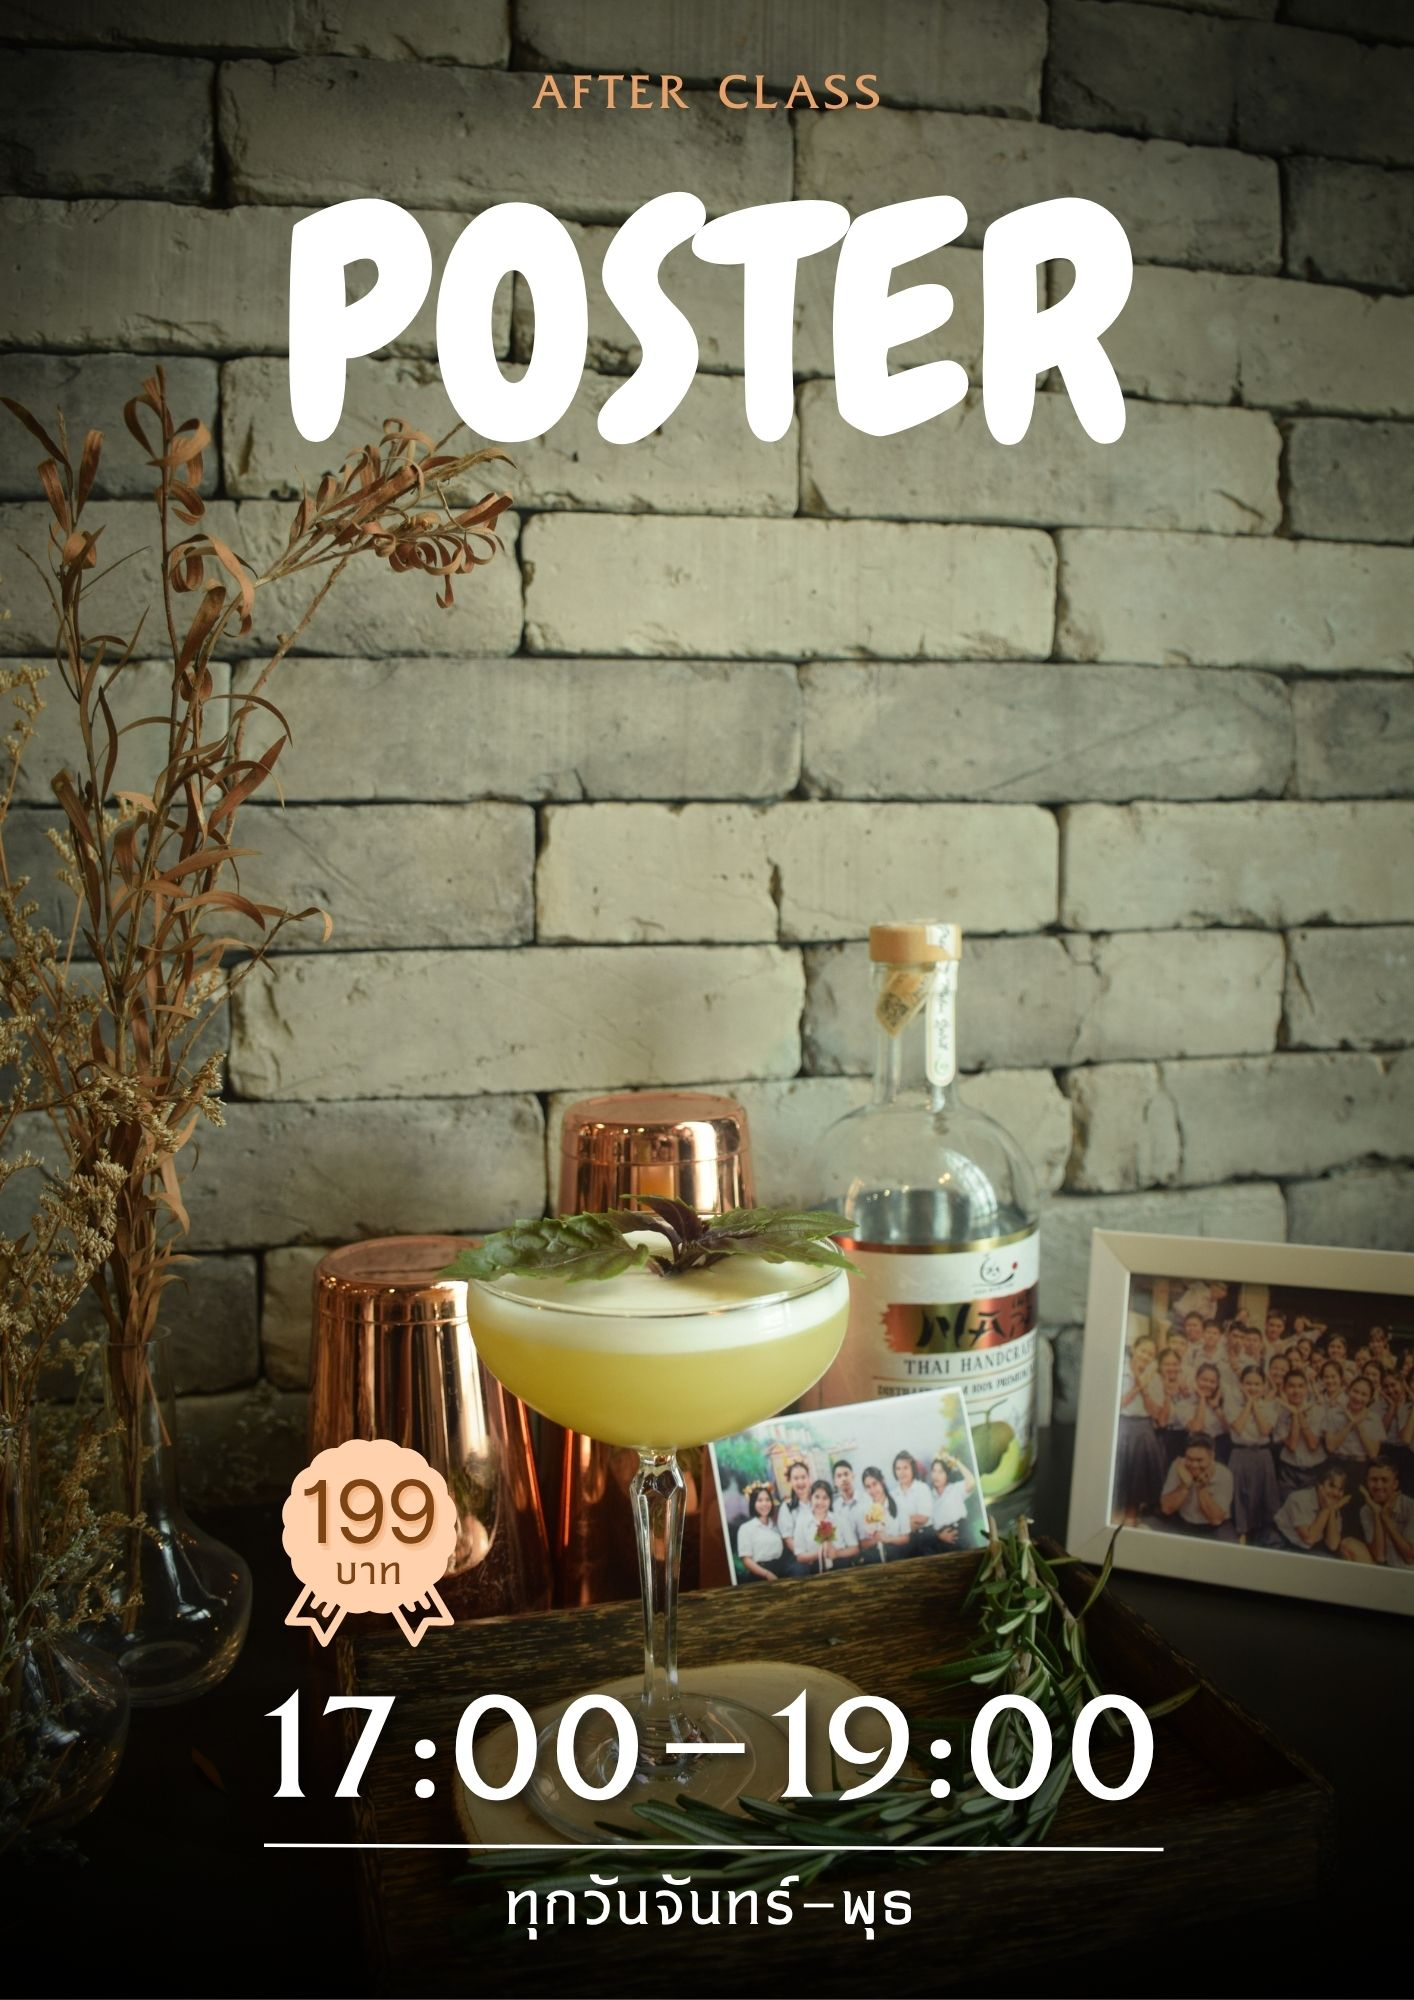
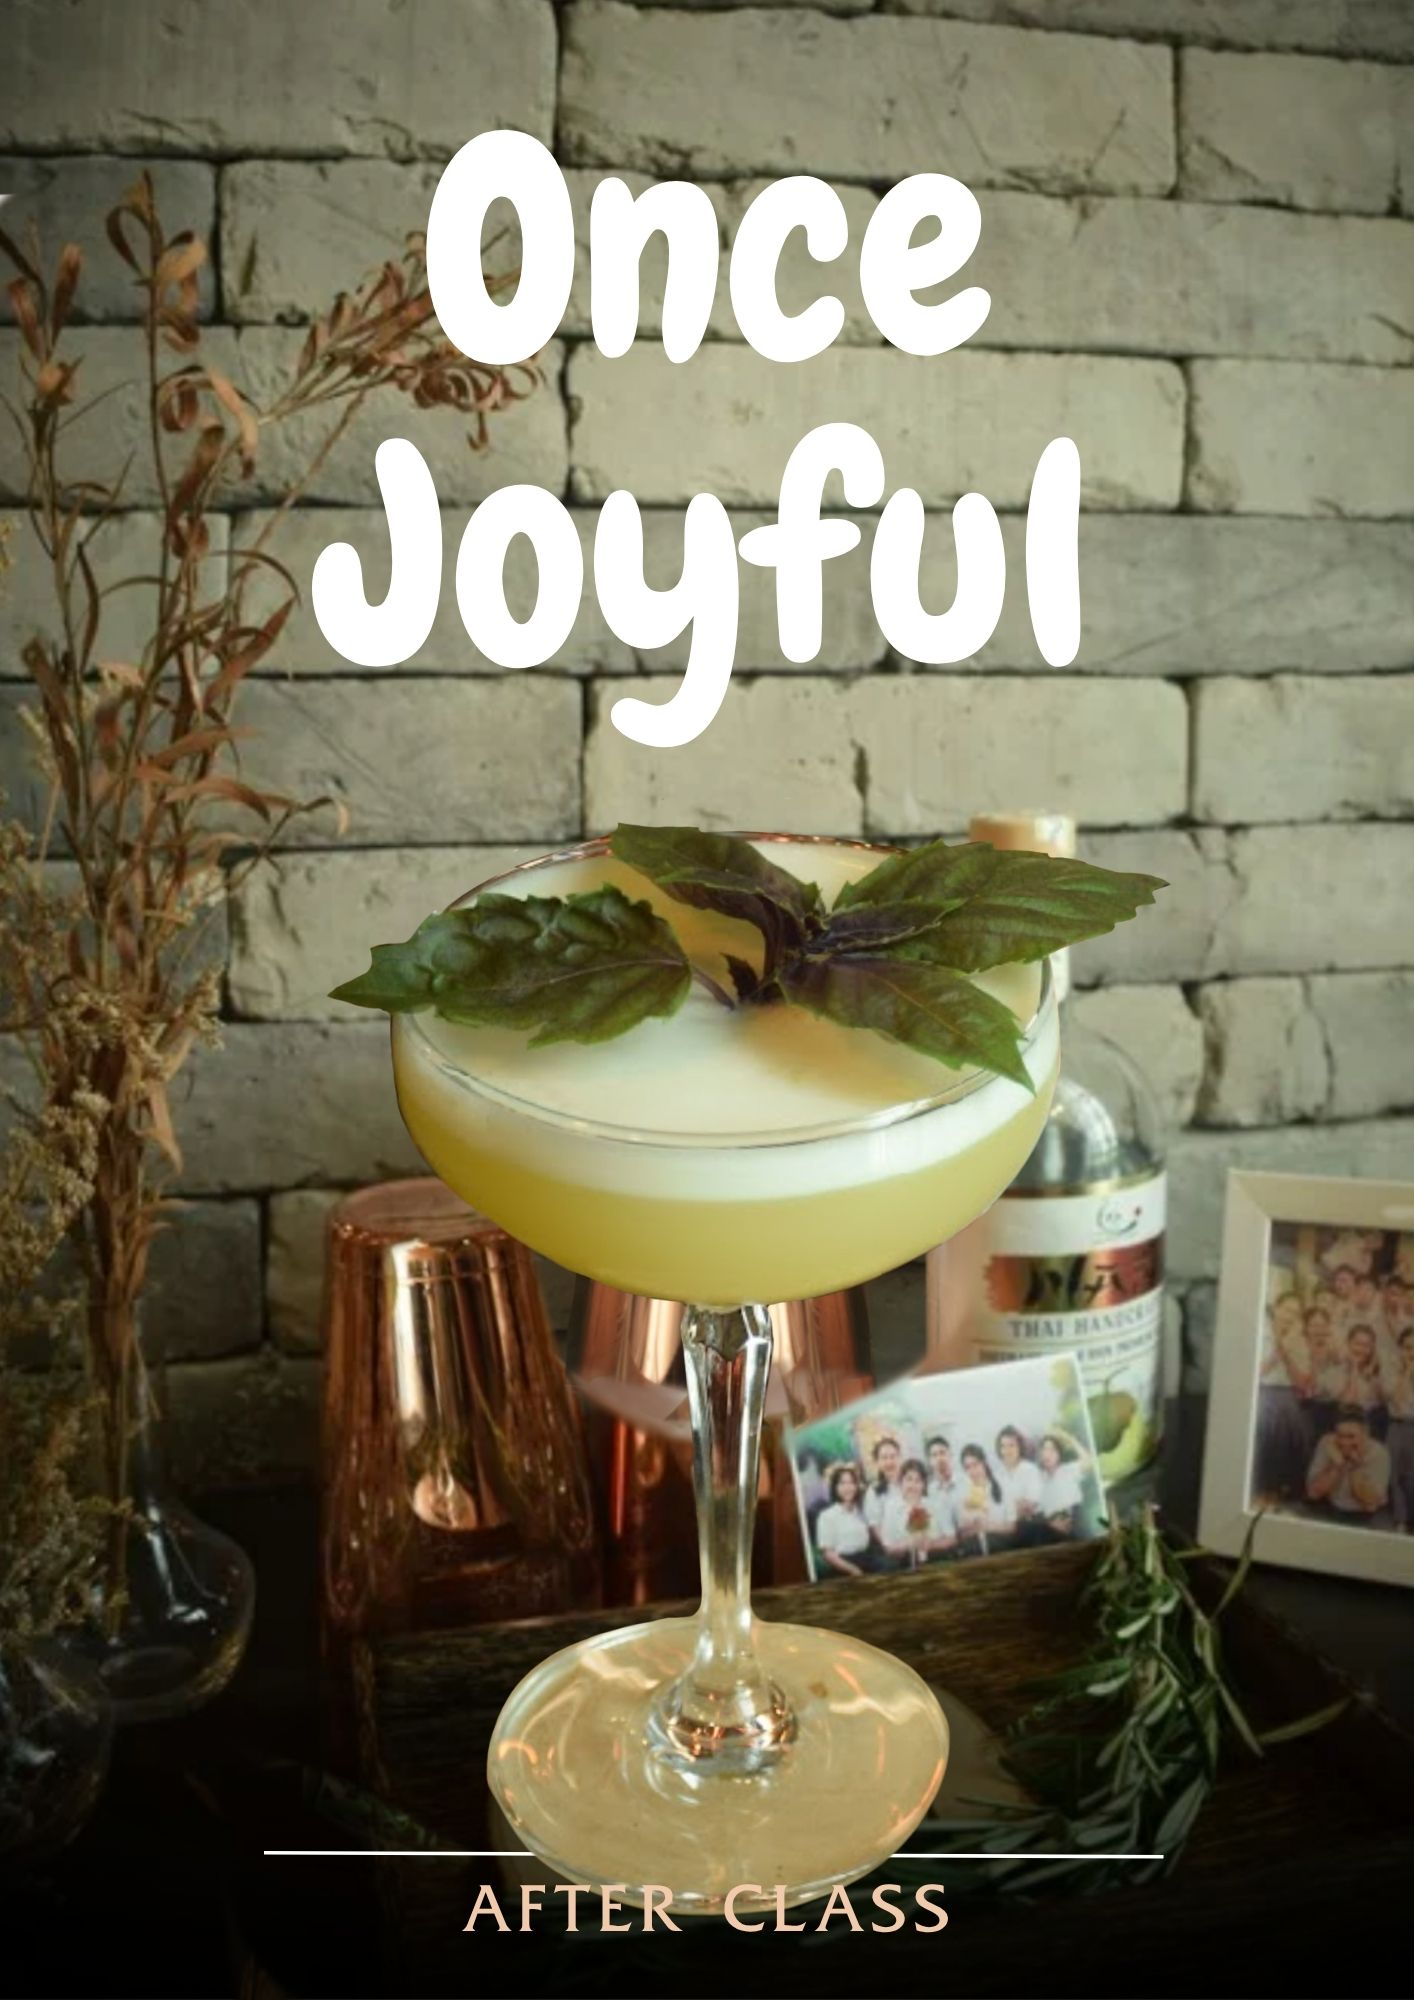
Implement code changes to enhance functionality and improve performance across various modules.

diff --git a/src/app/page.tsx b/src/app/page.tsx
@@ -20,97 +20,18 @@ export default function Home() {
       
       {/* Footer */}
       <footer 
-        className="py-16 relative overflow-hidden"
+        className="py-16 relative overflow-hidden text-center"
         style={{ backgroundColor: theme.colors.secondary }}
       >
-        {/* Background decoration */}
-        <div className="absolute inset-0">
-          <div 
-            className="absolute top-20 right-20 w-40 h-40 rounded-full blur-3xl opacity-10"
-            style={{ backgroundColor: theme.colors.tertiary }}
-          ></div>
-          <div 
-            className="absolute bottom-20 left-20 w-40 h-40 rounded-full blur-3xl opacity-10"
-            style={{ backgroundColor: theme.colors.tertiary }}
-          ></div>
-        </div>
-
-        <div className="max-w-7xl mx-auto px-4 sm:px-6 lg:px-8 relative z-10">
-          <div className="grid grid-cols-1 md:grid-cols-3 gap-12">
-            <div className="space-y-6">
-              <h3 
-                className="text-2xl font-bold"
-                style={{ color: theme.colors.textPrimary }}
-              >
-                🍹 Thai Mojito
-              </h3>
-              <p 
-                className="leading-relaxed font-light"
-                style={{ color: theme.colors.textSecondary }}
-              >
-                The perfect blend of authentic Thai white spirit with fresh kaffir lime leaves 
-                and aromatic lemongrass for a unique cocktail experience.
-              </p>
-            </div>
-            <div className="space-y-6">
-              <h4 
-                className="text-lg font-semibold"
-                style={{ color: theme.colors.textPrimary }}
-              >
-                Quick Links
-              </h4>
-              <ul className="space-y-3">
-                <li><a href="#hero" className="font-light transition-colors duration-300" style={{ color: theme.colors.textSecondary }} onMouseEnter={(e) => e.currentTarget.style.color = theme.colors.textPrimary} onMouseLeave={(e) => e.currentTarget.style.color = theme.colors.textSecondary}>Home</a></li>
-                <li><a href="#about" className="font-light transition-colors duration-300" style={{ color: theme.colors.textSecondary }} onMouseEnter={(e) => e.currentTarget.style.color = theme.colors.textPrimary} onMouseLeave={(e) => e.currentTarget.style.color = theme.colors.textSecondary}>About Our Drink</a></li>
-                <li><a href="#ingredient" className="font-light transition-colors duration-300" style={{ color: theme.colors.textSecondary }} onMouseEnter={(e) => e.currentTarget.style.color = theme.colors.textPrimary} onMouseLeave={(e) => e.currentTarget.style.color = theme.colors.textSecondary}>Ingredients</a></li>
-                <li><a href="#gallery" className="font-light transition-colors duration-300" style={{ color: theme.colors.textSecondary }} onMouseEnter={(e) => e.currentTarget.style.color = theme.colors.textPrimary} onMouseLeave={(e) => e.currentTarget.style.color = theme.colors.textSecondary}>Recipe & Making</a></li>
-                <li><a href="#member" className="font-light transition-colors duration-300" style={{ color: theme.colors.textSecondary }} onMouseEnter={(e) => e.currentTarget.style.color = theme.colors.textPrimary} onMouseLeave={(e) => e.currentTarget.style.color = theme.colors.textSecondary}>Our Team</a></li>
-              </ul>
-            </div>
-            <div className="space-y-6">
-              <h4 
-                className="text-lg font-semibold"
-                style={{ color: theme.colors.textPrimary }}
-              >
-                Get In Touch
-              </h4>
-              <div className="space-y-3 font-light" style={{ color: theme.colors.textSecondary }}>
-                <p>📧 hello@thaimojito.com</p>
-                <p>📞 +66 2-xxx-xxxx</p>
-                <p>📍 Bangkok, Thailand</p>
-                <div className="pt-4">
-                  <button 
-                    className="px-6 py-2 rounded-full text-sm font-medium transition-all duration-300 border"
-                    style={{
-                      backgroundColor: theme.colors.accent + '20',
-                      color: theme.colors.accent,
-                      borderColor: theme.colors.accent + '50'
-                    }}
-                    onMouseEnter={(e) => {
-                      e.currentTarget.style.backgroundColor = theme.colors.accent + '40';
-                    }}
-                    onMouseLeave={(e) => {
-                      e.currentTarget.style.backgroundColor = theme.colors.accent + '20';
-                    }}
-                  >
-                    Order Now
-                  </button>
-                </div>
-              </div>
-            </div>
-          </div>
-          <div 
-            className="mt-12 pt-8 text-center border-t"
-            style={{ borderColor: theme.colors.border }}
-          >
+        
             <p 
               className="font-light"
               style={{ color: theme.colors.textSecondary }}
             >
-              &copy; 2025 Thai Mojito. Crafted with passion in Thailand.
+              &copy; 2025 Thai Napa Product. Crafted with passion in Thailand.
             </p>
-          </div>
-        </div>
+     
+        
       </footer>
     </div>
   );

diff --git a/src/app/components/magazinemodal.tsx b/src/app/components/magazinemodal.tsx
@@ -14,8 +14,8 @@ export default function MagazineModal({ isOpen, onClose }: MagazineModalProps) {
   const [isFlipping, setIsFlipping] = useState(false);
   
   // Total pages in the magazine (JPG images)
-  const totalPages = 5; // We have p1.jpg, p2.jpg, p3.jpg, p4.jpg, p5.jpg
-  
+  const totalPages = 6; // We have p1.jpg, p2.jpg, p3.jpg, p4.jpg, p5.jpg, p6.jpg
+
   // Magazine image paths
   const getImagePath = (pageNumber: number) => {
     return `/magazine/p${pageNumber}.jpg`;
@@ -40,8 +40,12 @@ export default function MagazineModal({ isOpen, onClose }: MagazineModalProps) {
     // Third spread: pages 4-5
     leftPage = 4;
     rightPage = 5;
+  } else if (currentSpread === 4) {
+    // Fourth spread: page 6 on left side
+    leftPage = 6;
+    rightPage = null;
   }
-  
+
   if (!isOpen) return null;
 
   const handlePrevPage = () => {
@@ -55,7 +59,7 @@ export default function MagazineModal({ isOpen, onClose }: MagazineModalProps) {
   };
 
   const handleNextPage = () => {
-    const maxSpread = 3; // We have 3 spreads total
+    const maxSpread = 4; // We have 3 spreads total
     if (currentSpread < maxSpread && !isFlipping) {
       setIsFlipping(true);
       setTimeout(() => {
@@ -95,7 +99,7 @@ export default function MagazineModal({ isOpen, onClose }: MagazineModalProps) {
       ></div>
       
       {/* Modal Content */}
-      <div className="relative bg-primary glass max-w-4xl w-full mx-4 max-h-[90vh] rounded-2xl overflow-hidden">
+      <div className="relative bg-primary glass max-w-4xl w-full mx-4 max-h-[95vh] rounded-2xl overflow-hidden">
         {/* Header Controls */}
         <div className="flex items-center justify-between p-3 border-b border-divider/20 bg-surface/50 backdrop-blur-sm">
           <div className="flex items-center space-x-4">
@@ -103,7 +107,9 @@ export default function MagazineModal({ isOpen, onClose }: MagazineModalProps) {
               📖 After Class Magazine
             </h2>
             <div className="text-xs md:text-sm text-secondary">
-              {leftPage ? `Pages ${leftPage}-${rightPage}` : `Page ${rightPage}`} of {totalPages}
+              {leftPage && rightPage ? `Pages ${leftPage}-${rightPage}` : 
+               leftPage ? `Page ${leftPage}` : 
+               rightPage ? `Page ${rightPage}` : ''} of {totalPages}
             </div>
           </div>
           
@@ -144,7 +150,7 @@ export default function MagazineModal({ isOpen, onClose }: MagazineModalProps) {
               </button>
               <button
                 onClick={handleNextPage}
-                disabled={currentSpread >= 3 || isFlipping}
+                disabled={currentSpread >= 4 || isFlipping}
                 className="w-8 h-8 rounded-md bg-surface hover:bg-surface-elevated disabled:opacity-50 disabled:cursor-not-allowed flex items-center justify-center text-primary transition-all duration-200"
                 title="Next Pages"
               >
@@ -182,7 +188,7 @@ export default function MagazineModal({ isOpen, onClose }: MagazineModalProps) {
         </div>
 
         {/* Magazine Viewer - Book Layout Mode */}
-        <div className="relative h-[calc(90vh-120px)] bg-gray-50 overflow-auto">
+        <div className="relative h-[calc(100vh-120px)] bg-gray-50 overflow-auto">
           {isLoading && (
             <div className="absolute inset-0 flex items-center justify-center bg-surface/90 backdrop-blur-sm z-10">
               <div className="text-center">
@@ -213,7 +219,7 @@ export default function MagazineModal({ isOpen, onClose }: MagazineModalProps) {
                 
                 {/* Book Pages Container */}
                 <div className="flex h-full">
-                  {/* Left Page - Only show when exists */}
+                  {/* Left Page - Only show when exists and not spread 4 */}
                   {leftPage && (
                     <div className="w-1/2 relative bg-white">
                       <div className="relative w-full h-full">
@@ -256,7 +262,7 @@ export default function MagazineModal({ isOpen, onClose }: MagazineModalProps) {
                         {/* Right Click Area */}
                         <button
                           onClick={handleNextPage}
-                          disabled={currentSpread >= 3 || isFlipping}
+                          disabled={currentSpread >= 4 || isFlipping}
                           className="absolute right-0 top-0 w-1/3 h-full bg-transparent hover:bg-blue-500/10 transition-colors duration-200 cursor-pointer disabled:cursor-not-allowed z-20"
                           title="Next pages"
                         />
@@ -287,7 +293,9 @@ export default function MagazineModal({ isOpen, onClose }: MagazineModalProps) {
             <div className="flex items-center space-x-4 text-secondary">
               <span>📖 Book View</span>
               <span>🔍 Zoom: {zoom}%</span>
-              <span>📄 {leftPage ? `Pages ${leftPage}-${rightPage}` : `Page ${rightPage}`} of {totalPages}</span>
+              <span>📄 {leftPage && rightPage ? `Pages ${leftPage}-${rightPage}` : 
+                         leftPage ? `Page ${leftPage}` : 
+                         rightPage ? `Page ${rightPage}` : ''} of {totalPages}</span>
             </div>
           </div>
         </div>

diff --git a/src/app/data/member.ts b/src/app/data/member.ts
@@ -2,7 +2,7 @@ export interface Member {
   id: number;
   name: string;
   studentID: string;
-  role: string;
+  
   image: string;
 }
 
@@ -11,63 +11,63 @@ export const members: Member[] = [
     id: 1,
     name: "พิมลรัตน์ วิกยานนท์",
     studentID: "1650210378",
-    role: "หัวหน้าทีมพัฒนาสูตร",
+    
     image: "/team/member1.jpg"
   },
   {
     id: 2,
     name: "โสรญารัตน์ ภูไชยลิ้นฟ้า",
     studentID: "1650315383",
-    role: "นักสร้างสรรค์รสชาติ",
+    
     image: "/team/member2.jpg"
   },
   {
     id: 3,
     name: "หรรษธร เกษียร",
     studentID: "1650700964",
-    role: "ผู้เชี่ยวชาญเครื่องเทศ",
+    
     image: "/team/member3.jpg"
   },
   {
     id: 4,
     name: "บุญสวัสดิ์ แฝดกลาง",
     studentID: "1650701467",
-    role: "ผู้จัดการคุณภาพ",
+    
     image: "/team/member4.jpg"
   },
   {
     id: 5,
     name: "นิตินัทธ์ ล้ออุทัย",
     studentID: "1650703596",
-    role: "ผู้ทดสอบรสชาติ",
+    
     image: "/team/member5.jpg"
   },
   {
     id: 6,
     name: "อมาวสุ ด้วงอินทร์",
     studentID: "1650704404",
-    role: "ผู้จัดการการตลาด",
+   
     image: "/team/member6.jpg"
   },
   {
     id: 7,
     name: "ธนากร สุริยะรังษี",
     studentID: "1660309467",
-    role: "ผู้จัดการการตลาด",
+   
     image: "/team/member7.jpg"
   },
   {
     id: 8,
     name: "อดิศัย ใจชื่น",
     studentID: "1660901446",
-    role: "ผู้จัดการการตลาด",
+    
     image: "/team/member8.jpg"
   },
   {
     id: 9,
     name: "ปริวัฒน์ ทิมกลั่น",
     studentID: "1671201034",
-    role: "ผู้จัดการการตลาด",
+    
     image: "/team/member9.jpg"
   }
 ];

diff --git a/src/app/components/hero.tsx b/src/app/components/hero.tsx
@@ -33,9 +33,9 @@ export default function Hero() {
           {/* Main Title */}
             <div className="space-y-6 flex flex-col items-center">
             <img
-              src="/logo.png"
+              src="/menu/once.png"
               alt="After Class Logo"
-              className="w-48 h-48 object-contain mb-4"
+              className="w-80 h-80 object-cover mb-4"
             />
             <p className="text-xl sm:text-2xl text-secondary font-light max-w-2xl mx-auto">
               The perfect blend of After Class tradition and modern mixology

diff --git a/src/app/components/member.tsx b/src/app/components/member.tsx
@@ -59,12 +59,7 @@ export default function Member() {
                   >
                     {member.name}
                   </h3>
-                  <p 
-                    className="font-medium mb-3"
-                    style={{ color: theme.colors.textSecondary }}
-                  >
-                    {member.role}
-                  </p>
+                  
                   <span 
                     className="px-4 py-2 rounded-full text-sm font-medium border"
                     style={{

diff --git a/src/app/components/navbar.tsx b/src/app/components/navbar.tsx
@@ -17,7 +17,7 @@ export default function Navbar() {
   ];
 
   return (
-    <nav className="fixed top-4 left-1/2 transform -translate-x-1/2 w-[95%] max-w-6xl glass z-50">
+    <nav className="fixed top-0 left-0 right-0 w-full glass z-50">
       <div className="px-6 lg:px-8">
         <div className="flex items-center justify-between h-16">
           {/* Logo */}
